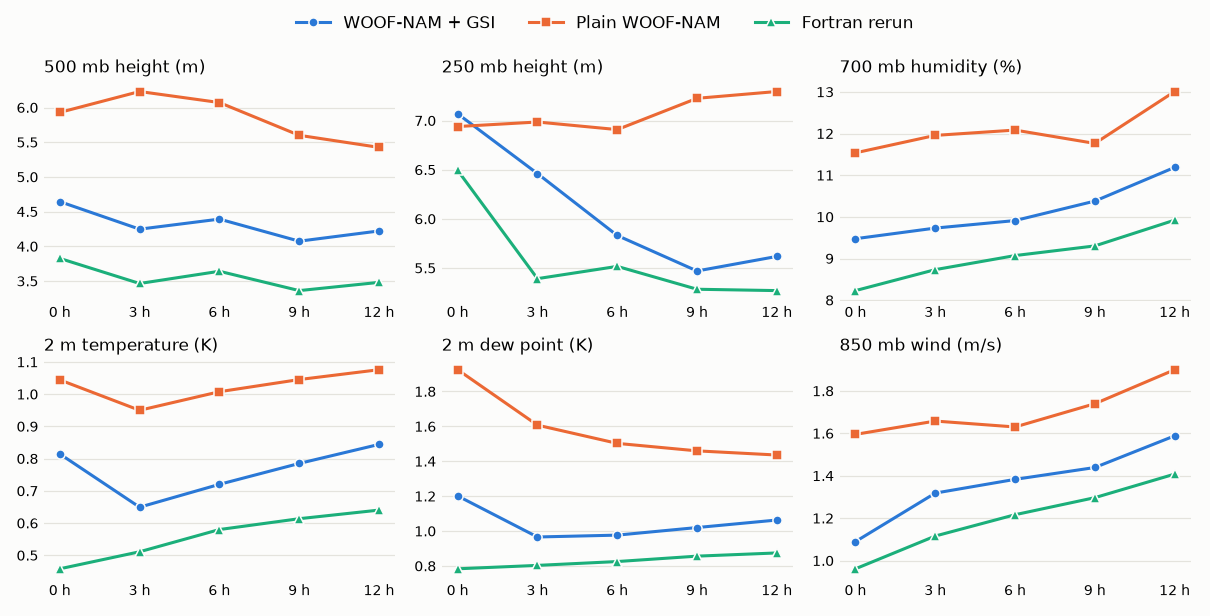
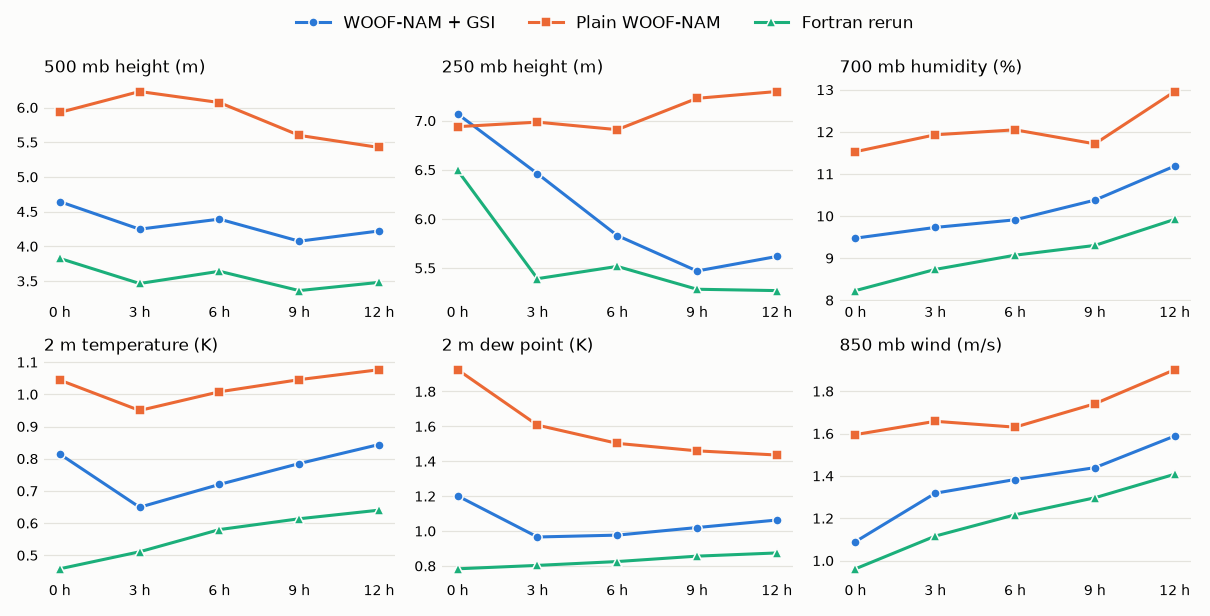
README: Pirate NAM runs 84-hour forecasts, add the production scripts
Sets the forecast length and costs to 84 hours and says plainly that live runs use RAP's
observation files, which the scored tests didn't. Adds pirate/prod/ and the 36-hour results.

Claude-Session: https://claude.ai/code/session_01TZEmUoTTFVmNGxCJCN2dhF

diff --git a/pirate/cycle/gsi_cycle.py b/pirate/cycle/gsi_cycle.py
@@ -9,6 +9,7 @@ seeded land), then GSI at tm05..tm00, then the free forecast.
 Usage: gsi_cycle.py woof-nam-run-args...       Environment: GSI_CPUS, GSI_MEM_GB
 """
 import os, shutil, struct, subprocess, sys, time
+from datetime import datetime, timedelta
 from pathlib import Path
 import numpy as np, cupy as cp
 from namgpu.driver import Driver
@@ -16,18 +17,21 @@ from namgpu import run_forecast
 from namgpu.init import init_derive_state
 from namgpu.steps import drv_dfi_tdfi_driver
 from namgpu.boundary import bnd_read_bc
+from namgpu.init import slab_init
 
-C = "2026110300"
+C = os.environ["NAM_CYCLE"]; CYC_HH = C[8:]    # the forecast's start, YYYYMMDDHH
+CYCLE_TIME = datetime.strptime(C, "%Y%m%d%H")
 # Containers always see the tree as /nam; NAM_HOST lets two experiments run side by side from separate trees on the host.
 HOST = os.environ.get("NAM_HOST", "/nam")
-GES_IN = "/nam/com/nam/v4.2/nwges/nam.20261103"
+GES_IN = f"/nam/com/nam/v4.2/nwges/nam.{C[:8]}"
 GES = HOST + GES_IN[4:]
-COLD_ANL = f"{GES_IN}/nam.t00z.input_domain_01_nemsio.anl.tm06"
+COLD_ANL = f"{GES_IN}/nam.t{CYC_HH}z.input_domain_01_nemsio.anl.tm06"
 SHM = Path("/dev/shm/gsi_cycle_" + os.path.basename(HOST))
 STEPS_PER_HOUR = 144
 QMIN = 1e-8
 FILTER_EACH_CYCLE = os.environ.get("GSI_FILTER", "0") == "1"
 RESET_NH = os.environ.get("GSI_RESET_NH", "0") == "1"
+HANDOFF = os.environ.get("GSI_HANDOFF")
 LAND_SEED = os.environ.get("GSI_LAND_SEED", "0") == "1"
 RRFS_START = bool(os.environ.get("RRFS_NPZ"))
 if RRFS_START: import rrfs_start
@@ -76,15 +80,13 @@ def export_guess(ctx, d):
     cp.asnumpy(cp.where(open_water, st["SST"], 0.0)).astype("f4").tofile(d / "tsea__sfc.bin")
 
 def set_guess_time(path, k):
-    """The template is one Fortran restart, so its header says 23Z + 1 h whichever hour it now holds. GSI takes the guess
-    time from there, and with the wrong one it silently matches no observations (cost 0). A tmNN guess was a 1 h forecast
-    from tm(NN+1), which in this cycle is always on the day before the 00Z analysis."""
+    """The template is one Fortran restart, so its header holds that run's date whichever hour it now holds. GSI takes the guess
+    time from there, and with the wrong one it silently matches no observations (cost 0). A tmNN guess is a 1 h forecast
+    (the header's forecast hour stays 1), so its start is 1 h before the tmNN analysis time."""
+    start = CYCLE_TIME - timedelta(hours=k + 1)
     with open(path, "r+b") as f:
         f.seek(HEADER_IDATE_OFFSET)
-        year, month, day, hour = struct.unpack(">4i", f.read(16))
-        if (year, month, day) != (2026, 11, 2): raise RuntimeError(f"unexpected template date {year} {month} {day}")
-        f.seek(HEADER_IDATE_OFFSET + 12)
-        f.write(struct.pack(">i", 23 - k))
+        f.write(struct.pack(">4i", start.year, start.month, start.day, start.hour))
 
 def check_state(ctx, label):
     """A broken model state or a NaN analysis must stop the cycle, because GSI still exits 0 on NaN input."""
@@ -138,8 +140,8 @@ def analyse(ctx, tm):
         print(f"tm06 start applied in {time.time() - t0:.0f} s", flush=True)
         shutil.rmtree(anl_dir); return
     # The template restart moves to the name this analysis expects, so only one 9 GB file ever exists.
-    k = int(tm[2:]); guess_file = f"{GES}/nam.t00z.nmm_b_restart_nemsio.tm{k + 1:02d}"
-    previous = [f for f in Path(GES).glob("nam.t00z.nmm_b_restart_nemsio.tm*")][0]
+    k = int(tm[2:]); guess_file = f"{GES}/nam.t{CYC_HH}z.nmm_b_restart_nemsio.tm{k + 1:02d}"
+    previous = [f for f in Path(GES).glob(f"nam.t{CYC_HH}z.nmm_b_restart_nemsio.tm*")][0]
     if str(previous) != guess_file: previous.rename(guess_file)
     gd = SHM / f"guess_{tm}"
     export_guess(ctx, gd); os.chmod(gd, 0o777)
@@ -159,7 +161,7 @@ def analyse(ctx, tm):
     costs = [ln.split("=")[1].strip() for ln in log_text.splitlines() if ln.startswith(("Initial cost function", "Final   cost function"))]
     print(f"{tm}: GSI cost (each outer loop) {costs}", flush=True)
     if not costs or any("NaN" in c or float(c.replace("D", "E")) <= 0 for c in costs): raise RuntimeError(f"GSI cost invalid at {tm}: {costs}")
-    anl_file = f"{GES}/nam.t00z.nmm_b_restart_nemsio_anl.{tm}"
+    anl_file = f"{GES}/nam.t{CYC_HH}z.nmm_b_restart_nemsio_anl.{tm}"
     container("/nam/exec/nemsio_fields", "dump", anl_file.replace(HOST, "/nam", 1), str(anl_dir), READ_NAMES)
     apply_analysis(ctx, anl_dir, tm, ANALYSED)
     check_state(ctx, f"analysis {tm}")
@@ -216,12 +218,24 @@ def seed_land(ctx):
     ctx.stream.synchronize(); shutil.rmtree(anl_dir)
     print("land seeded at tm06", flush=True)
 
+def save_handoff(ctx):
+    """Save the analysed state for the two-card forecast. It starts its own clock, so the saved context has to describe the
+    forecast's case: its start time, and boundary files cut for its window. The catch-up's last hour isn't needed afterwards."""
+    case_dir = ctx.case_dir.parent / CYCLE_TIME.strftime("%Y-%m-%d_%Hz")
+    keep = (ctx.start, ctx.start_time, ctx.case_dir, ctx.boco_dir)
+    ctx.start = ctx.start_time = CYCLE_TIME; ctx.case_dir = case_dir; ctx.boco_dir = str(case_dir / "boco")
+    t0 = time.time(); rec = slab_init.save(ctx, HANDOFF)
+    ctx.start, ctx.start_time, ctx.case_dir, ctx.boco_dir = keep
+    if rec.get("skipped"): print("handoff skipped:", rec["skipped"], flush=True)
+    print(f"handoff saved to {HANDOFF}: {rec['gib']} GiB in {time.time() - t0:.0f} s", flush=True)
+
 def analyse_at(ctx, n):
     if n in schedule and n not in done and not ctx.filter_active:
         done.add(n); analyse(ctx, schedule[n])
         if FILTER_EACH_CYCLE: run_filter(ctx, schedule[n])
         # tm06 is the run's first step, whose boundaries arrive normally at step 1.
         if n > 0: reload_boundaries(ctx, n)
+        if schedule[n] == "tm00" and HANDOFF: save_handoff(ctx)
 
 def step(self):
     # tm06 goes in before the first step. Later analyses go in straight after the step that reaches their hour, because

diff --git a/pirate/prod/archive_rap.py b/pirate/prod/archive_rap.py
@@ -1,0 +1,42 @@
+"""Copy RAP observation files to the private archive bucket before NOMADS ages them out (about 2 days). One file at a time per
+worker through temporary disk, each checked by size. Safe to rerun: objects already there with the right size are skipped.
+Usage: archive_rap.py YYYYMMDD [YYYYMMDD ...]"""
+import os, subprocess, sys, tempfile, time
+from concurrent.futures import ThreadPoolExecutor
+import boto3, botocore, ovh
+BUCKET = "pirate-nam-archive"; N = "https://nomads.ncep.noaa.gov/pub/data/nccf/com/obsproc/prod"
+KINDS = ("prepbufr.tm00.nr", "satwnd.tm00.bufr_d", "lgycld.tm00.bufr_d", "nexrad.tm00.bufr_d")
+c = ovh.Client(config_file=os.environ["OVH_CONFIG"], timeout=(10, 60)); pid = os.environ["OVH_PROJECT"]; uid = int(os.environ["OVH_USER"])
+ak = c.get(f"/cloud/project/{pid}/user/{uid}/s3Credentials")[0]["access"]; sk = c.post(f"/cloud/project/{pid}/user/{uid}/s3Credentials/{ak}/secret")["secret"]
+s3 = boto3.client("s3", endpoint_url="https://s3.bhs.io.cloud.ovh.net", region_name="bhs", aws_access_key_id=ak, aws_secret_access_key=sk)
+TMP = os.environ["PIRATE_DATA"] + "/archive/.tmp_rap"; os.makedirs(TMP, exist_ok=True)
+LOCAL = os.environ["PIRATE_DATA"] + "/archive/obsproc"
+
+def one(job):
+    day, name = job; key = f"archive/obsproc/rap.{day}/{name}"; local = f"{LOCAL}/rap.{day}/{name}"
+    try:
+        size = s3.head_object(Bucket=BUCKET, Key=key)["ContentLength"]
+        if size > 0: return "already", size
+    except botocore.exceptions.ClientError: pass
+    if os.path.getsize(local) > 0 if os.path.exists(local) else False:
+        s3.upload_file(local, BUCKET, key); got = os.path.getsize(local)
+    else:
+        fd, tmp = tempfile.mkstemp(dir=TMP); os.close(fd)
+        try:
+            r = subprocess.run(["curl", "-sf", "--http1.1", "--retry", "3", "--retry-delay", "20", "-m", "1500", "-o", tmp, f"{N}/rap.{day}/{name}"])
+            if r.returncode == 22 or os.path.getsize(tmp) == 0: return "missing", 0
+            if r.returncode: return f"failed curl {r.returncode}", 0
+            s3.upload_file(tmp, BUCKET, key); got = os.path.getsize(tmp)
+        finally:
+            os.remove(tmp)
+    if s3.head_object(Bucket=BUCKET, Key=key)["ContentLength"] != got: return "size mismatch", 0
+    return "copied", got
+
+for day in sys.argv[1:]:
+    jobs = [(day, f"rap.t{h:02d}z.{k}") for h in range(24) for k in KINDS]; tally = {}; bytes_ = 0; t0 = time.time()
+    with ThreadPoolExecutor(3) as ex:
+        for job, (state, size) in zip(jobs, ex.map(one, jobs)):
+            tally[state] = tally.get(state, 0) + 1; bytes_ += size
+            if state not in ("already", "copied"): print(state, job[1], flush=True)
+    print(f"rap.{day}: {tally}, {bytes_ / 1e9:.1f} GB, {time.time() - t0:.0f} s", flush=True)
+print("ARCHIVE_RAP_DONE", flush=True)

diff --git a/README.md b/README.md
@@ -12,7 +12,7 @@ Keeping the retired North American Mesoscale model sailing, on one GPU machine.
 
 NOAA retired the NAM on 3 November 2026. Pirate NAM runs the same model design on a much smaller machine by combining two existing pieces of work: [WOOF-NAM](https://github.com/recastsystems/woof-nam), an independent GPU port of the NAM's NMMB model, and NOAA's GSI, the Fortran program that blends observations into a model state. Its goal is to stay as close as practical to what the NAM would have produced.
 
-**Where this stands:** the forecasts on the map viewer today use WOOF-NAM started directly from GFS, without observations. The cycle with GSI described below has only been tested on one past case, and isn't running live yet.
+**Where this stands:** Pirate NAM is being set up to run 84-hour forecasts, the same length as the NAM's 12 km forecast, with GSI adding observations. That setup hasn't completed a live run yet. The forecast on the map viewer today is a 48-hour run of WOOF-NAM started directly from GFS, without observations.
 
 ## How the tested cycle works
 
@@ -24,7 +24,7 @@ Like the NAM, it runs a 6-hour catch-up before the forecast, so the model has ab
 | 20Z | GSI adds observations | CPU |
 | 22Z | GSI adds observations | CPU |
 | 00Z | GSI adds observations | CPU |
-| 00Z to +48 h | Forecast | GPU |
+| 00Z to +84 h | Forecast | GPU |
 
 WOOF-NAM forecasts on the GPU between analyses, with the model state kept on the card. At each analysis, its fields are written into a real NMMB restart file, GSI runs on that file unchanged, and whatever GSI changed goes back onto the card.
 
@@ -35,13 +35,13 @@ WOOF-NAM forecasts on the GPU between analyses, with the model state kept on the
 | **Status** | Retired 3 Nov 2026 | Open source | Experimental; GFS-start version live |
 | **Model** | NMMB, Fortran | Same design, ported to GPU | WOOF-NAM, unchanged |
 | **Numerics** | The reference | Single precision, not bit-identical to the NAM | Same as WOOF-NAM |
-| **Hardware** | Supercomputer | One or more NVIDIA cards | One V100S card, 15 CPUs, 45 GB |
+| **Hardware** | Supercomputer | One or more NVIDIA cards | Two V100S cards, 30 CPUs, 90 GB. One card, 15 CPUs and 45 GB also works, more slowly |
 | **Grids** | 12 km parent plus higher-resolution nests | 12 km; 4 km, nests and others available | 12 km only |
-| **Forecast length** | 84 h at 12 km | Your choice | 48 h |
+| **Forecast length** | 84 h at 12 km | Your choice | 84 h |
 | **Start** | Global model atmosphere plus NAM's own land, 6 h before the forecast | GFS, or a NAM analysis when one exists | GFS, 6 h before the forecast |
 | **Observations** | GSI every hour through the catch-up (7 analyses) | None | GSI every 2 hours (3 analyses): more made no measured difference |
-| **Observation sources** | NAM's dedicated data feed, satellite radiances, radar | None | RAP observation files and MRMS radar. Radiances and lightning left out: no measured benefit |
-| **Ensemble in GSI** | Global ensemble | None | GEFS |
+| **Observation sources** | NAM's dedicated data feed, satellite radiances, radar | None | RAP's hourly observation files and MRMS radar, since the NAM's own files ended with it. No GPS radio occultation in RAP's files. Radiances and lightning left out: no measured benefit |
+| **Ensemble in GSI** | Global ensemble | None | GEFS, the newest available |
 | **Digital filter** | At each catch-up start | At the start | At the start only: filtering each analysis made no measured improvement |
 | **Soil and snow** | Carried from cycle to cycle, with observed rainfall | From GFS | From GFS. Seeding from the NAM archive improved scores by only 0.4% in testing |
 | **SST and sea ice** | Refreshed from outside analyses | From GFS | From GFS |
@@ -50,6 +50,8 @@ WOOF-NAM forecasts on the GPU between analyses, with the model state kept on the
 ## Results for one run
 
 All scores are RMSE against the archived NAM forecast for the 00Z 3 November 2026 cycle, on the NAM's own output grid. Lower means closer to the NAM.
+
+**These tests used the NAM's final observation files, which live runs can't.** Live runs use RAP's files instead, and scores with those are still to come. These tests were also scored only to 36 hours, so the 84-hour forecast is unverified beyond that.
 
 - The GSI cycle's median error is **0.80×** plain WOOF-NAM from GFS, and it's closer to the NAM on **68 of 69** scores.
 - Its median error is **1.16×** our Fortran rerun of the NAM.
@@ -60,9 +62,9 @@ All scores are RMSE against the archived NAM forecast for the 00Z 3 November 202
 
 | Field | GSI cycle | Plain WOOF | Fortran rerun | WOOF from NAM analysis |
 |---|--:|--:|--:|--:|
-| 500 mb height (m) | **4.22** | 5.43 | 3.48 | 0.96 |
+| 500 mb height (m) | **4.22** | 5.42 | 3.48 | 0.96 |
 | 250 mb height (m) | **5.62** | 7.30 | 5.27 | 1.45 |
-| 700 mb humidity (%) | **11.19** | 13.01 | 9.92 | n/a |
+| 700 mb humidity (%) | **11.19** | 12.96 | 9.92 | n/a |
 | 2 m temperature (K) | **0.84** | 1.08 | 0.64 | 0.36 |
 | 2 m dew point (K) | **1.06** | 1.44 | 0.87 | 0.33 |
 | 850 mb wind (m/s) | **1.59** | 1.90 | 1.41 | 0.49 |
@@ -80,6 +82,20 @@ GSI cycle: WOOF-NAM from GFS with three GSI analyses. Plain WOOF: WOOF-NAM from 
 
 Valid 12Z 3 November 2026. Red is higher than the NAM and blue is lower. The noisy pressure differences over the western mountains appear in both WOOF-NAM runs, and sea level pressure is an extrapolated quantity there.
 
+### How long the observations help
+
+The median ratio is the GSI cycle's error relative to a plain GFS start: below 1 means closer to the NAM. Below that, each cell is RMSE for the GSI cycle / plain start.
+
+| Field | 0 h | 6 h | 12 h | 18 h | 24 h | 30 h | 36 h |
+|---|--:|--:|--:|--:|--:|--:|--:|
+| **Median ratio, all fields** | **0.78** | **0.81** | **0.82** | **0.83** | **0.87** | **0.87** | **0.87** |
+| 500 mb height (m) | 4.64 / 5.93 | 4.38 / 6.07 | 4.22 / 5.42 | 4.68 / 5.94 | 4.96 / 6.33 | 5.47 / 6.99 | 6.27 / 8.53 |
+| 250 mb height (m) | 7.07 / 6.94 | 5.82 / 6.91 | 5.60 / 7.30 | 6.49 / 8.29 | 7.39 / 9.66 | 8.71 / 11.62 | 10.36 / 13.86 |
+| 700 mb humidity (%) | 9.48 / 11.53 | 9.90 / 12.05 | 11.19 / 12.96 | 12.40 / 13.97 | 13.86 / 15.80 | 15.41 / 16.39 | 15.98 / 17.21 |
+| 2 m temperature (K) | 0.81 / 1.04 | 0.72 / 1.01 | 0.85 / 1.08 | 0.99 / 1.19 | 0.89 / 1.00 | 0.89 / 1.04 | 1.06 / 1.20 |
+| 2 m dew point (K) | 1.20 / 1.92 | 0.98 / 1.50 | 1.06 / 1.44 | 1.15 / 1.40 | 1.21 / 1.42 | 1.15 / 1.35 | 1.20 / 1.37 |
+| 850 mb wind (m/s) | 1.09 / 1.60 | 1.39 / 1.63 | 1.59 / 1.90 | 1.73 / 1.99 | 1.70 / 1.89 | 1.85 / 2.10 | 1.97 / 2.25 |
+
 ### How to read this
 
 - **This is one case.** Other weather could score differently.
@@ -88,13 +104,13 @@ Valid 12Z 3 November 2026. Red is higher than the NAM and blue is lower. The noi
 
 ## What it takes to run
 
-| 48-hour forecast | Time | Cost (OVHcloud) | Status |
+| 84-hour forecast | Time | Cost (OVHcloud) | Status |
 |---|---|---|---|
-| WOOF-NAM from GFS, one card | 75 min | About CAD 1.45 | Measured, live |
-| GSI cycle, one card (t2-45) | About 2.4 h | About CAD 2.80 | Estimated from measured parts |
-| GSI cycle, two cards (t2-90) | About 1.5 h | About CAD 3.40 | Estimated from measured parts; not yet run end to end |
+| GSI cycle, two cards (t2-90), the production setup | About 2 h | About CAD 4.60 | Estimated from measured parts; first live run in progress |
+| GSI cycle, one card (t2-45) | About 3.2 h | About CAD 3.70 | Estimated from measured parts |
+| WOOF-NAM from GFS, one card | About 2.2 h | About CAD 2.55 | Scaled from a measured 48-hour run |
 
-Times are for the model and GSI, before post-processing and upload. The code is in [`pirate/`](pirate/README.md).
+Times are for the model and GSI. Fetching inputs, post-processing and upload add roughly an hour. The code is in [`pirate/`](pirate/README.md).
 
 ## Credits
 

diff --git a/pirate/docs/readme_top.md b/pirate/docs/readme_top.md
@@ -12,7 +12,7 @@ Keeping the retired North American Mesoscale model sailing, on one GPU machine.
 
 NOAA retired the NAM on 3 November 2026. Pirate NAM runs the same model design on a much smaller machine by combining two existing pieces of work: [WOOF-NAM](https://github.com/recastsystems/woof-nam), an independent GPU port of the NAM's NMMB model, and NOAA's GSI, the Fortran program that blends observations into a model state. Its goal is to stay as close as practical to what the NAM would have produced.
 
-**Where this stands:** the forecasts on the map viewer today use WOOF-NAM started directly from GFS, without observations. The cycle with GSI described below has only been tested on one past case, and isn't running live yet.
+**Where this stands:** Pirate NAM is being set up to run 84-hour forecasts, the same length as the NAM's 12 km forecast, with GSI adding observations. That setup hasn't completed a live run yet. The forecast on the map viewer today is a 48-hour run of WOOF-NAM started directly from GFS, without observations.
 
 ## How the tested cycle works
 
@@ -24,7 +24,7 @@ Like the NAM, it runs a 6-hour catch-up before the forecast, so the model has ab
 | 20Z | GSI adds observations | CPU |
 | 22Z | GSI adds observations | CPU |
 | 00Z | GSI adds observations | CPU |
-| 00Z to +48 h | Forecast | GPU |
+| 00Z to +84 h | Forecast | GPU |
 
 WOOF-NAM forecasts on the GPU between analyses, with the model state kept on the card. At each analysis, its fields are written into a real NMMB restart file, GSI runs on that file unchanged, and whatever GSI changed goes back onto the card.
 
@@ -35,13 +35,13 @@ WOOF-NAM forecasts on the GPU between analyses, with the model state kept on the
 | **Status** | Retired 3 Nov 2026 | Open source | Experimental; GFS-start version live |
 | **Model** | NMMB, Fortran | Same design, ported to GPU | WOOF-NAM, unchanged |
 | **Numerics** | The reference | Single precision, not bit-identical to the NAM | Same as WOOF-NAM |
-| **Hardware** | Supercomputer | One or more NVIDIA cards | One V100S card, 15 CPUs, 45 GB |
+| **Hardware** | Supercomputer | One or more NVIDIA cards | Two V100S cards, 30 CPUs, 90 GB. One card, 15 CPUs and 45 GB also works, more slowly |
 | **Grids** | 12 km parent plus higher-resolution nests | 12 km; 4 km, nests and others available | 12 km only |
-| **Forecast length** | 84 h at 12 km | Your choice | 48 h |
+| **Forecast length** | 84 h at 12 km | Your choice | 84 h |
 | **Start** | Global model atmosphere plus NAM's own land, 6 h before the forecast | GFS, or a NAM analysis when one exists | GFS, 6 h before the forecast |
 | **Observations** | GSI every hour through the catch-up (7 analyses) | None | GSI every 2 hours (3 analyses): more made no measured difference |
-| **Observation sources** | NAM's dedicated data feed, satellite radiances, radar | None | RAP observation files and MRMS radar. Radiances and lightning left out: no measured benefit |
-| **Ensemble in GSI** | Global ensemble | None | GEFS |
+| **Observation sources** | NAM's dedicated data feed, satellite radiances, radar | None | RAP's hourly observation files and MRMS radar, since the NAM's own files ended with it. No GPS radio occultation in RAP's files. Radiances and lightning left out: no measured benefit |
+| **Ensemble in GSI** | Global ensemble | None | GEFS, the newest available |
 | **Digital filter** | At each catch-up start | At the start | At the start only: filtering each analysis made no measured improvement |
 | **Soil and snow** | Carried from cycle to cycle, with observed rainfall | From GFS | From GFS. Seeding from the NAM archive improved scores by only 0.4% in testing |
 | **SST and sea ice** | Refreshed from outside analyses | From GFS | From GFS |
@@ -50,4 +50,6 @@ WOOF-NAM forecasts on the GPU between analyses, with the model state kept on the
 ## Results for one run
 
 All scores are RMSE against the archived NAM forecast for the 00Z 3 November 2026 cycle, on the NAM's own output grid. Lower means closer to the NAM.
+
+**These tests used the NAM's final observation files, which live runs can't.** Live runs use RAP's files instead, and scores with those are still to come. These tests were also scored only to 36 hours, so the 84-hour forecast is unverified beyond that.
 

diff --git a/pirate/assets/results.md b/pirate/assets/results.md
@@ -7,9 +7,9 @@
 
 | Field | GSI cycle | Plain WOOF | Fortran rerun | WOOF from NAM analysis |
 |---|--:|--:|--:|--:|
-| 500 mb height (m) | **4.22** | 5.43 | 3.48 | 0.96 |
+| 500 mb height (m) | **4.22** | 5.42 | 3.48 | 0.96 |
 | 250 mb height (m) | **5.62** | 7.30 | 5.27 | 1.45 |
-| 700 mb humidity (%) | **11.19** | 13.01 | 9.92 | n/a |
+| 700 mb humidity (%) | **11.19** | 12.96 | 9.92 | n/a |
 | 2 m temperature (K) | **0.84** | 1.08 | 0.64 | 0.36 |
 | 2 m dew point (K) | **1.06** | 1.44 | 0.87 | 0.33 |
 | 850 mb wind (m/s) | **1.59** | 1.90 | 1.41 | 0.49 |
@@ -26,3 +26,17 @@ GSI cycle: WOOF-NAM from GFS with three GSI analyses. Plain WOOF: WOOF-NAM from 
 ![Maps of reflectivity, sea level pressure and 500 mb height at 12 hours, with differences from the NAM](pirate/assets/maps_f12.png)
 
 Valid 12Z 3 November 2026. Red is higher than the NAM and blue is lower. The noisy pressure differences over the western mountains appear in both WOOF-NAM runs, and sea level pressure is an extrapolated quantity there.
+
+### How long the observations help
+
+The median ratio is the GSI cycle's error relative to a plain GFS start: below 1 means closer to the NAM. Below that, each cell is RMSE for the GSI cycle / plain start.
+
+| Field | 0 h | 6 h | 12 h | 18 h | 24 h | 30 h | 36 h |
+|---|--:|--:|--:|--:|--:|--:|--:|
+| **Median ratio, all fields** | **0.78** | **0.81** | **0.82** | **0.83** | **0.87** | **0.87** | **0.87** |
+| 500 mb height (m) | 4.64 / 5.93 | 4.38 / 6.07 | 4.22 / 5.42 | 4.68 / 5.94 | 4.96 / 6.33 | 5.47 / 6.99 | 6.27 / 8.53 |
+| 250 mb height (m) | 7.07 / 6.94 | 5.82 / 6.91 | 5.60 / 7.30 | 6.49 / 8.29 | 7.39 / 9.66 | 8.71 / 11.62 | 10.36 / 13.86 |
+| 700 mb humidity (%) | 9.48 / 11.53 | 9.90 / 12.05 | 11.19 / 12.96 | 12.40 / 13.97 | 13.86 / 15.80 | 15.41 / 16.39 | 15.98 / 17.21 |
+| 2 m temperature (K) | 0.81 / 1.04 | 0.72 / 1.01 | 0.85 / 1.08 | 0.99 / 1.19 | 0.89 / 1.00 | 0.89 / 1.04 | 1.06 / 1.20 |
+| 2 m dew point (K) | 1.20 / 1.92 | 0.98 / 1.50 | 1.06 / 1.44 | 1.15 / 1.40 | 1.21 / 1.42 | 1.15 / 1.35 | 1.20 / 1.37 |
+| 850 mb wind (m/s) | 1.09 / 1.60 | 1.39 / 1.63 | 1.59 / 1.90 | 1.73 / 1.99 | 1.70 / 1.89 | 1.85 / 2.10 | 1.97 / 2.25 |

diff --git a/pirate/README.md b/pirate/README.md
@@ -4,6 +4,7 @@ This folder holds everything added to WOOF-NAM. Upstream's `namgpu/` is left unc
 
 | Folder | What it does |
 |---|---|
+| `prod/` | Runs one live cycle end to end: inputs, catch-up with GSI on one card, forecast on both, then publishing |
 | `cycle/` | Cycles WOOF-NAM with NOAA's GSI (`gsi_cycle.py`), and moves fields between the model and NEMSIO restart files (`nemsio_fields.f90`) |
 | `publish/` | Turns history files into GRIB2 and Zarr, uploads them, and updates the run list |
 | `verify/` | Scores a run against the archived NAM and builds the README's results |
@@ -12,7 +13,7 @@ This folder holds everything added to WOOF-NAM. Upstream's `namgpu/` is left unc
 | `infra/` | Creates and sets up an OVHcloud GPU machine |
 | `viewer/` | The static map viewer and data page |
 
-**This isn't turnkey yet.** It records how the tests were run, and `gsi_cycle.py` still has the 2026-11-03 00Z test case built in. Live cycling is the next job.
+**This isn't turnkey yet.** `prod/run_cycle.sh` runs a live cycle, but it's new and assumes a machine already set up by `infra/`. Its first live run is still in progress.
 
 **Tested against upstream commit `93d85e3`.** This fork's `main` is newer, and upstream has changed `driver.py` and `bnd_read_bc.py` since, both of which the cycle depends on. Retest before relying on a newer version.
 

diff --git a/pirate/docs/readme_bottom.md b/pirate/docs/readme_bottom.md
@@ -7,13 +7,13 @@
 
 ## What it takes to run
 
-| 48-hour forecast | Time | Cost (OVHcloud) | Status |
+| 84-hour forecast | Time | Cost (OVHcloud) | Status |
 |---|---|---|---|
-| WOOF-NAM from GFS, one card | 75 min | About CAD 1.45 | Measured, live |
-| GSI cycle, one card (t2-45) | About 2.4 h | About CAD 2.80 | Estimated from measured parts |
-| GSI cycle, two cards (t2-90) | About 1.5 h | About CAD 3.40 | Estimated from measured parts; not yet run end to end |
+| GSI cycle, two cards (t2-90), the production setup | About 2 h | About CAD 4.60 | Estimated from measured parts; first live run in progress |
+| GSI cycle, one card (t2-45) | About 3.2 h | About CAD 3.70 | Estimated from measured parts |
+| WOOF-NAM from GFS, one card | About 2.2 h | About CAD 2.55 | Scaled from a measured 48-hour run |
 
-Times are for the model and GSI, before post-processing and upload. The code is in [`pirate/`](pirate/README.md).
+Times are for the model and GSI. Fetching inputs, post-processing and upload add roughly an hour. The code is in [`pirate/`](pirate/README.md).
 
 ## Credits
 
